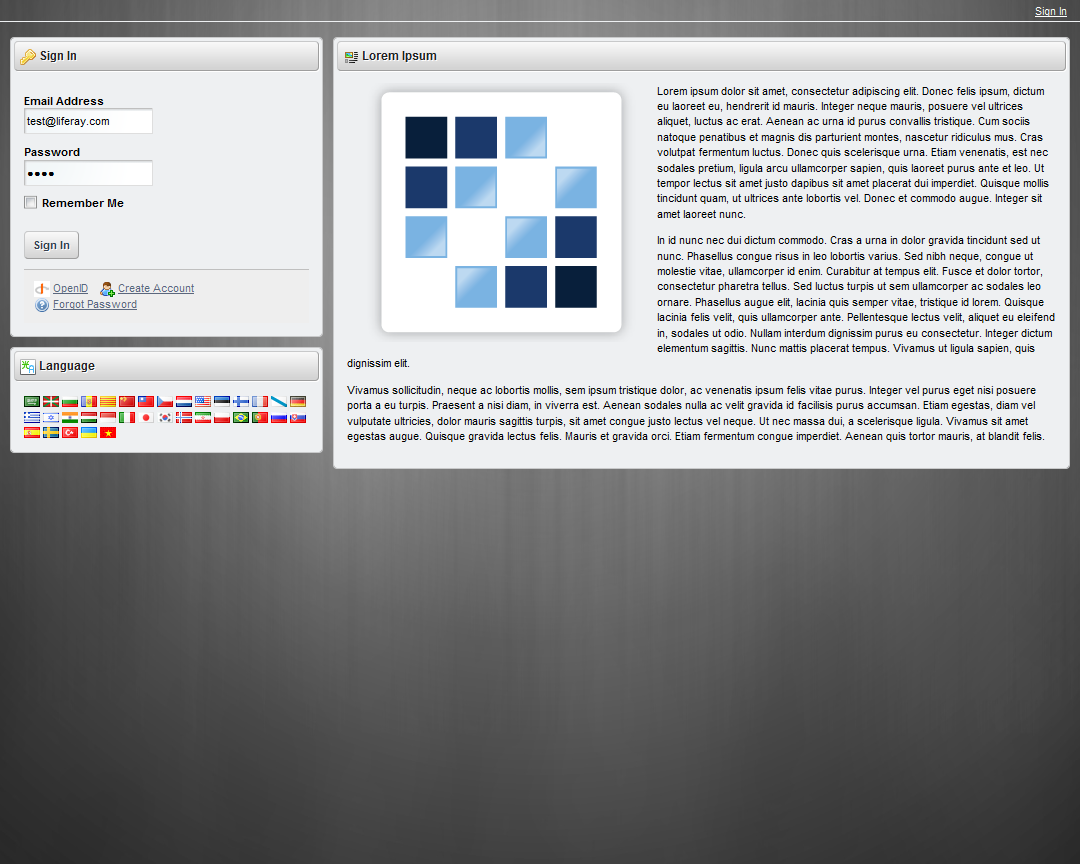
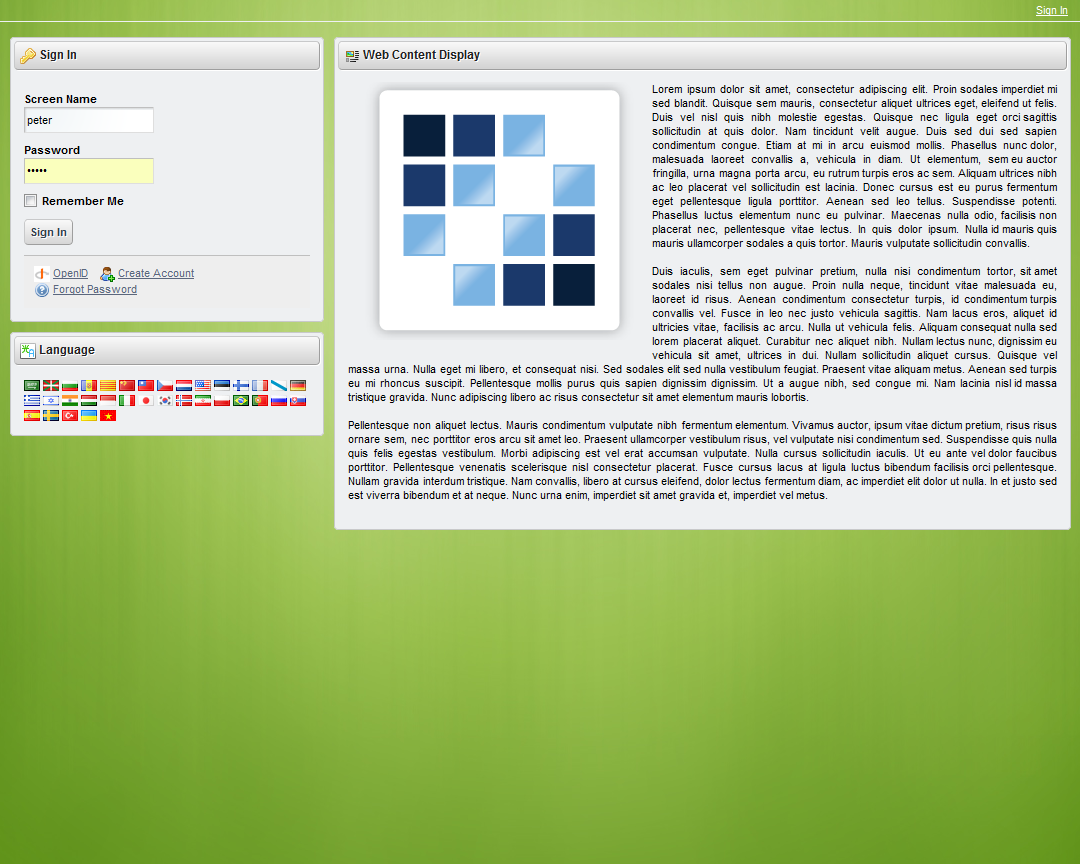
Desktop theme simplify
git-svn-id: svn://svn.liferay.com/repos/public/plugins/trunk@58667 05bdf26c-840f-0410-9ced-eb539d925f36

diff --git a/themes/desktop-theme/docroot/_diffs/css/color_schemes/simple.css b/themes/desktop-theme/docroot/_diffs/css/color_schemes/simple.css
@@ -1,13 +1,11 @@
+/* ---------- Base styles ---------- */
+
+.simple #login a {
+	color: #FFF;
+}
+
 /* ---------- Wallpaper ---------- */
 
-#maximized.simple {
-	background-color: #555;
-}
-
-#signedIn.simple {
-	background: url(../../images/color_schemes/simple/wallpaper/signed_in.jpg) no-repeat fixed 50% 50%;
-}
-
-#signedOut.simple {
-	background: url(../../images/color_schemes/simple/wallpaper/signed_out.jpg) no-repeat fixed 50% 50%;
+body.simple {
+	background: url(../../images/color_schemes/simple/wallpaper/bg.jpg) no-repeat fixed 50% 50%;
 }

diff --git a/themes/desktop-theme/docroot/_diffs/css/color_schemes/nature.css b/themes/desktop-theme/docroot/_diffs/css/color_schemes/nature.css
@@ -1,13 +1,5 @@
 /* ---------- Wallpaper ---------- */
 
-#maximized {
-	background-color: #555;
-}
-
-#signedIn {
-	background: url(../../images/wallpaper/signed_in.jpg) no-repeat fixed bottom left;
-}
-
-#signedOut {
-	background: url(../../images/wallpaper/signed_out.jpg) no-repeat fixed bottom left;
+body.nature {
+	background: url(../../images/color_schemes/nature/wallpaper/bg.jpg) no-repeat fixed bottom left;
 }

diff --git a/themes/desktop-theme/docroot/_diffs/css/desktop.css b/themes/desktop-theme/docroot/_diffs/css/desktop.css
@@ -4,22 +4,21 @@
 
 /* ---------- Base styles ---------- */
 
-#main {
-	min-width: 960px;
+#content {
+	margin: 10px 10px 0;
 }
 
-#signIn {
+#login {
 	border-bottom: 1px solid #EEF0F2;
 	min-width: 960px;
 	padding: 3px;
 	text-align: right;
 }
 
-#signIn a {
-	color: #FFF;
+#login a {
 	margin-right: 10px;
 }
 
-#content {
-	margin: 10px 10px 0;
+#main {
+	min-width: 960px;
 }
